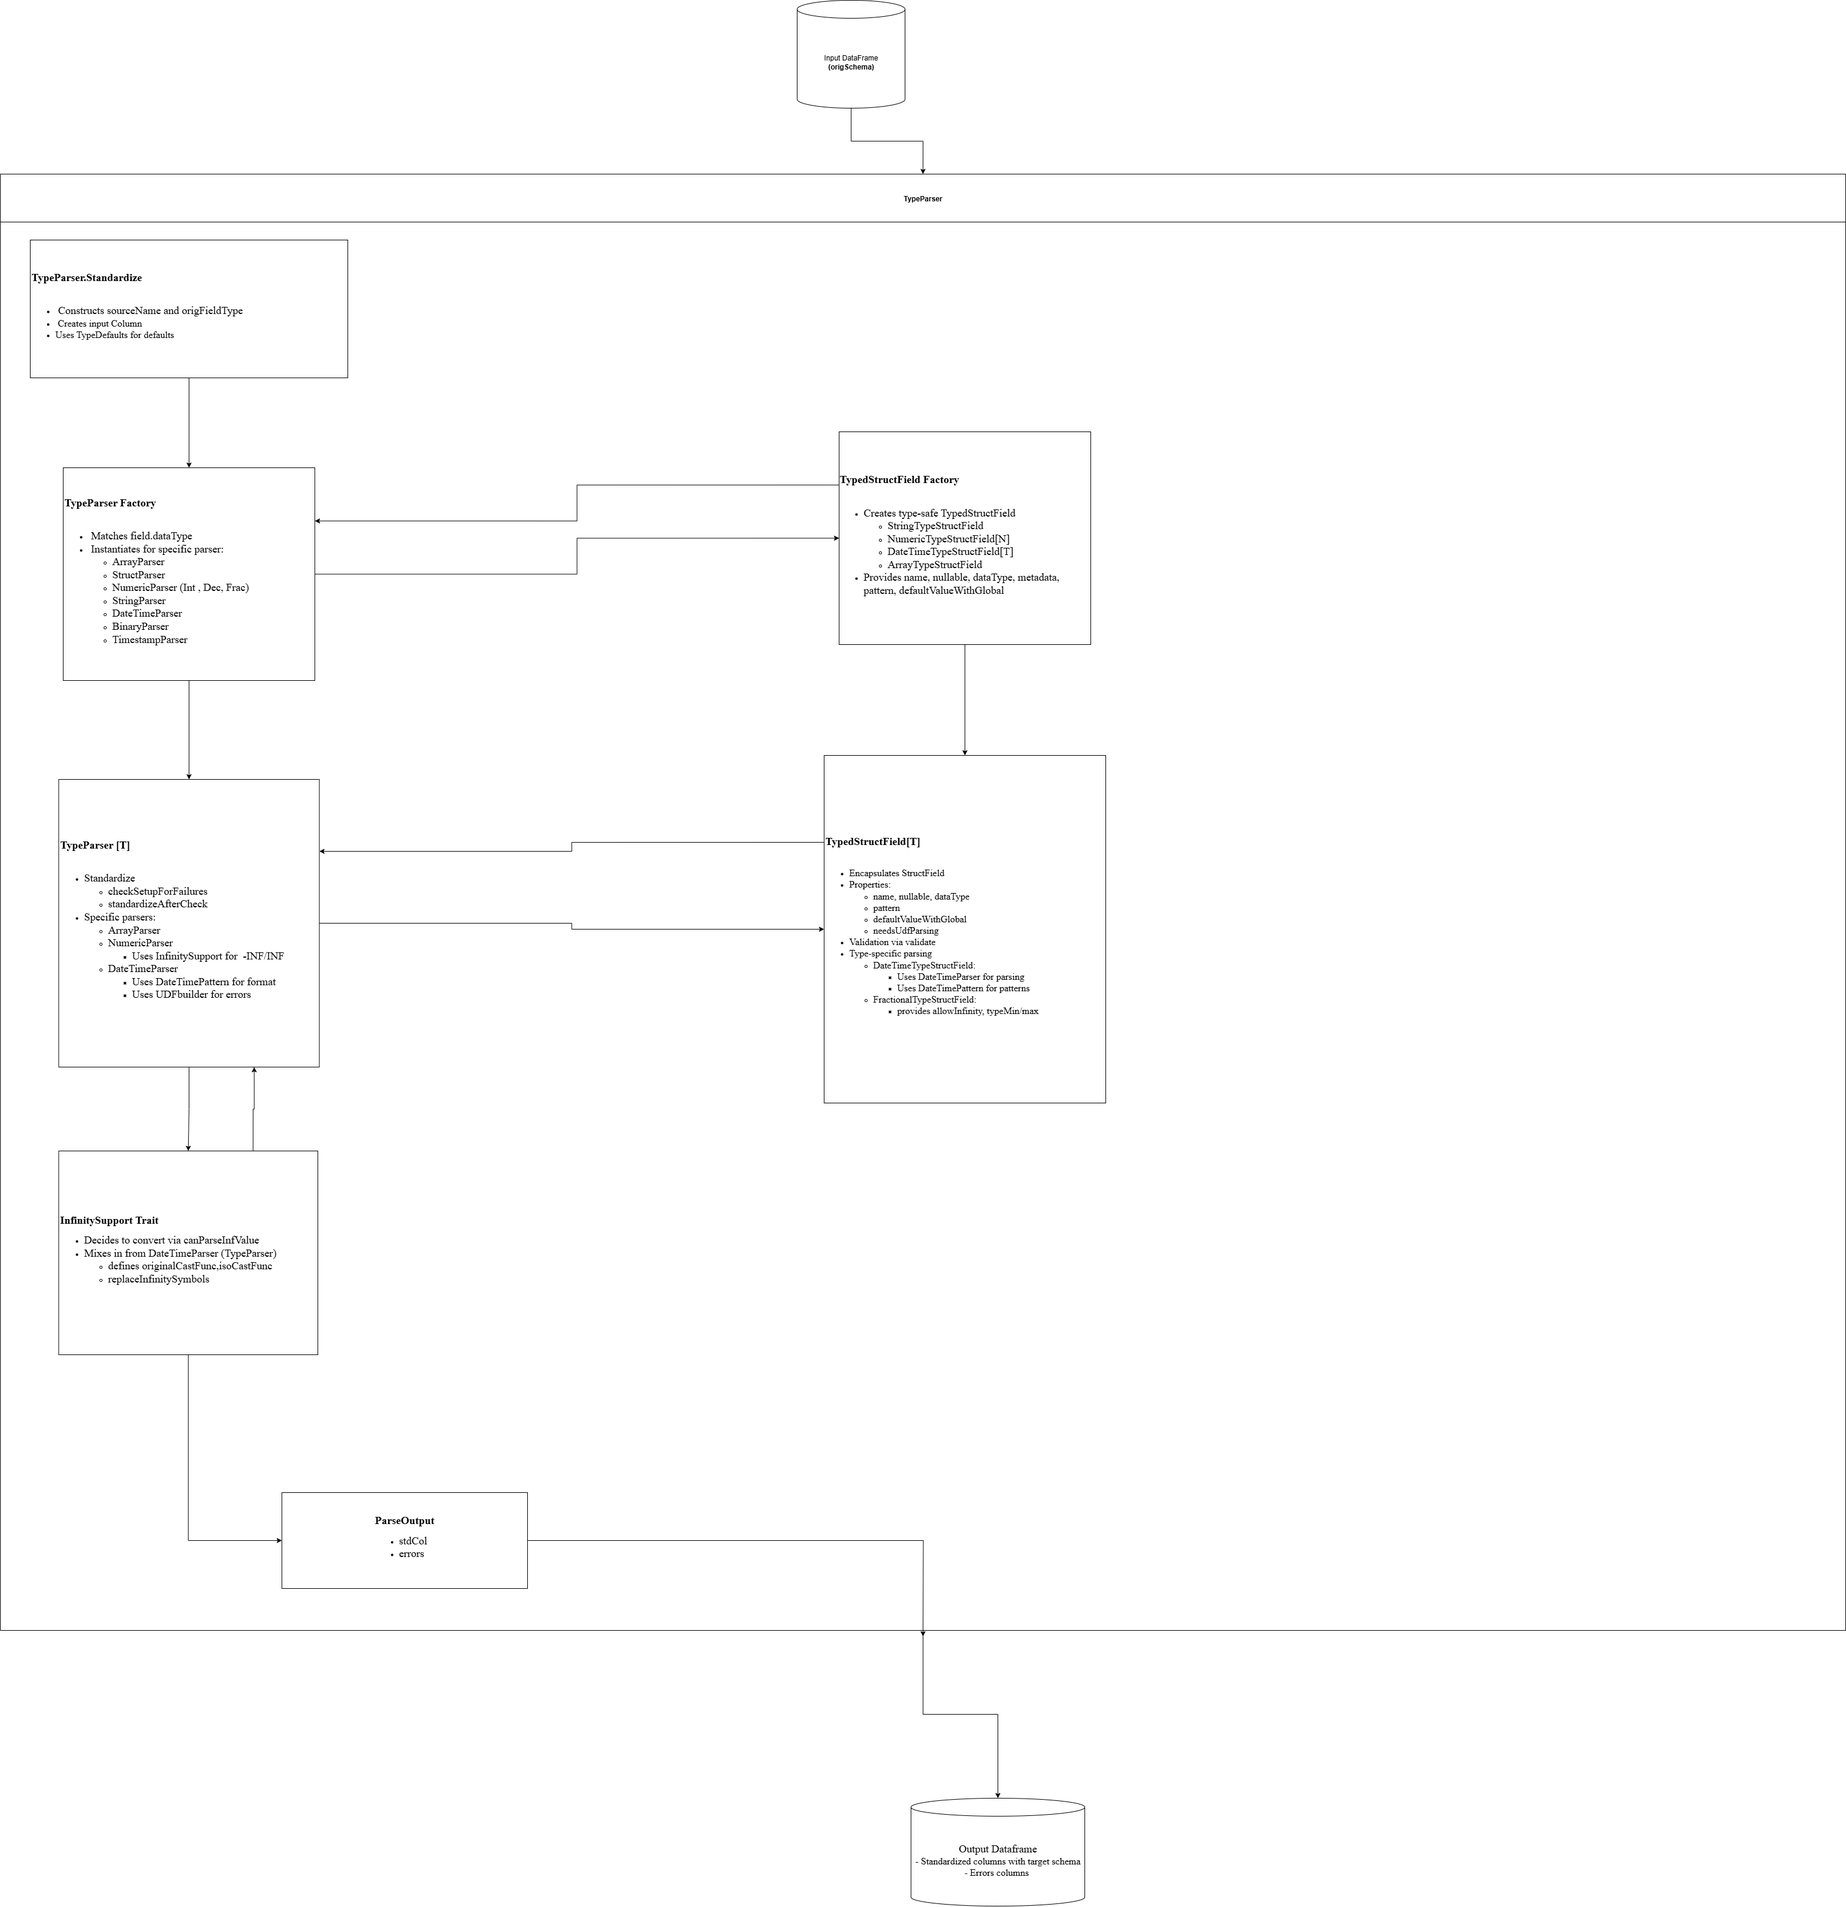
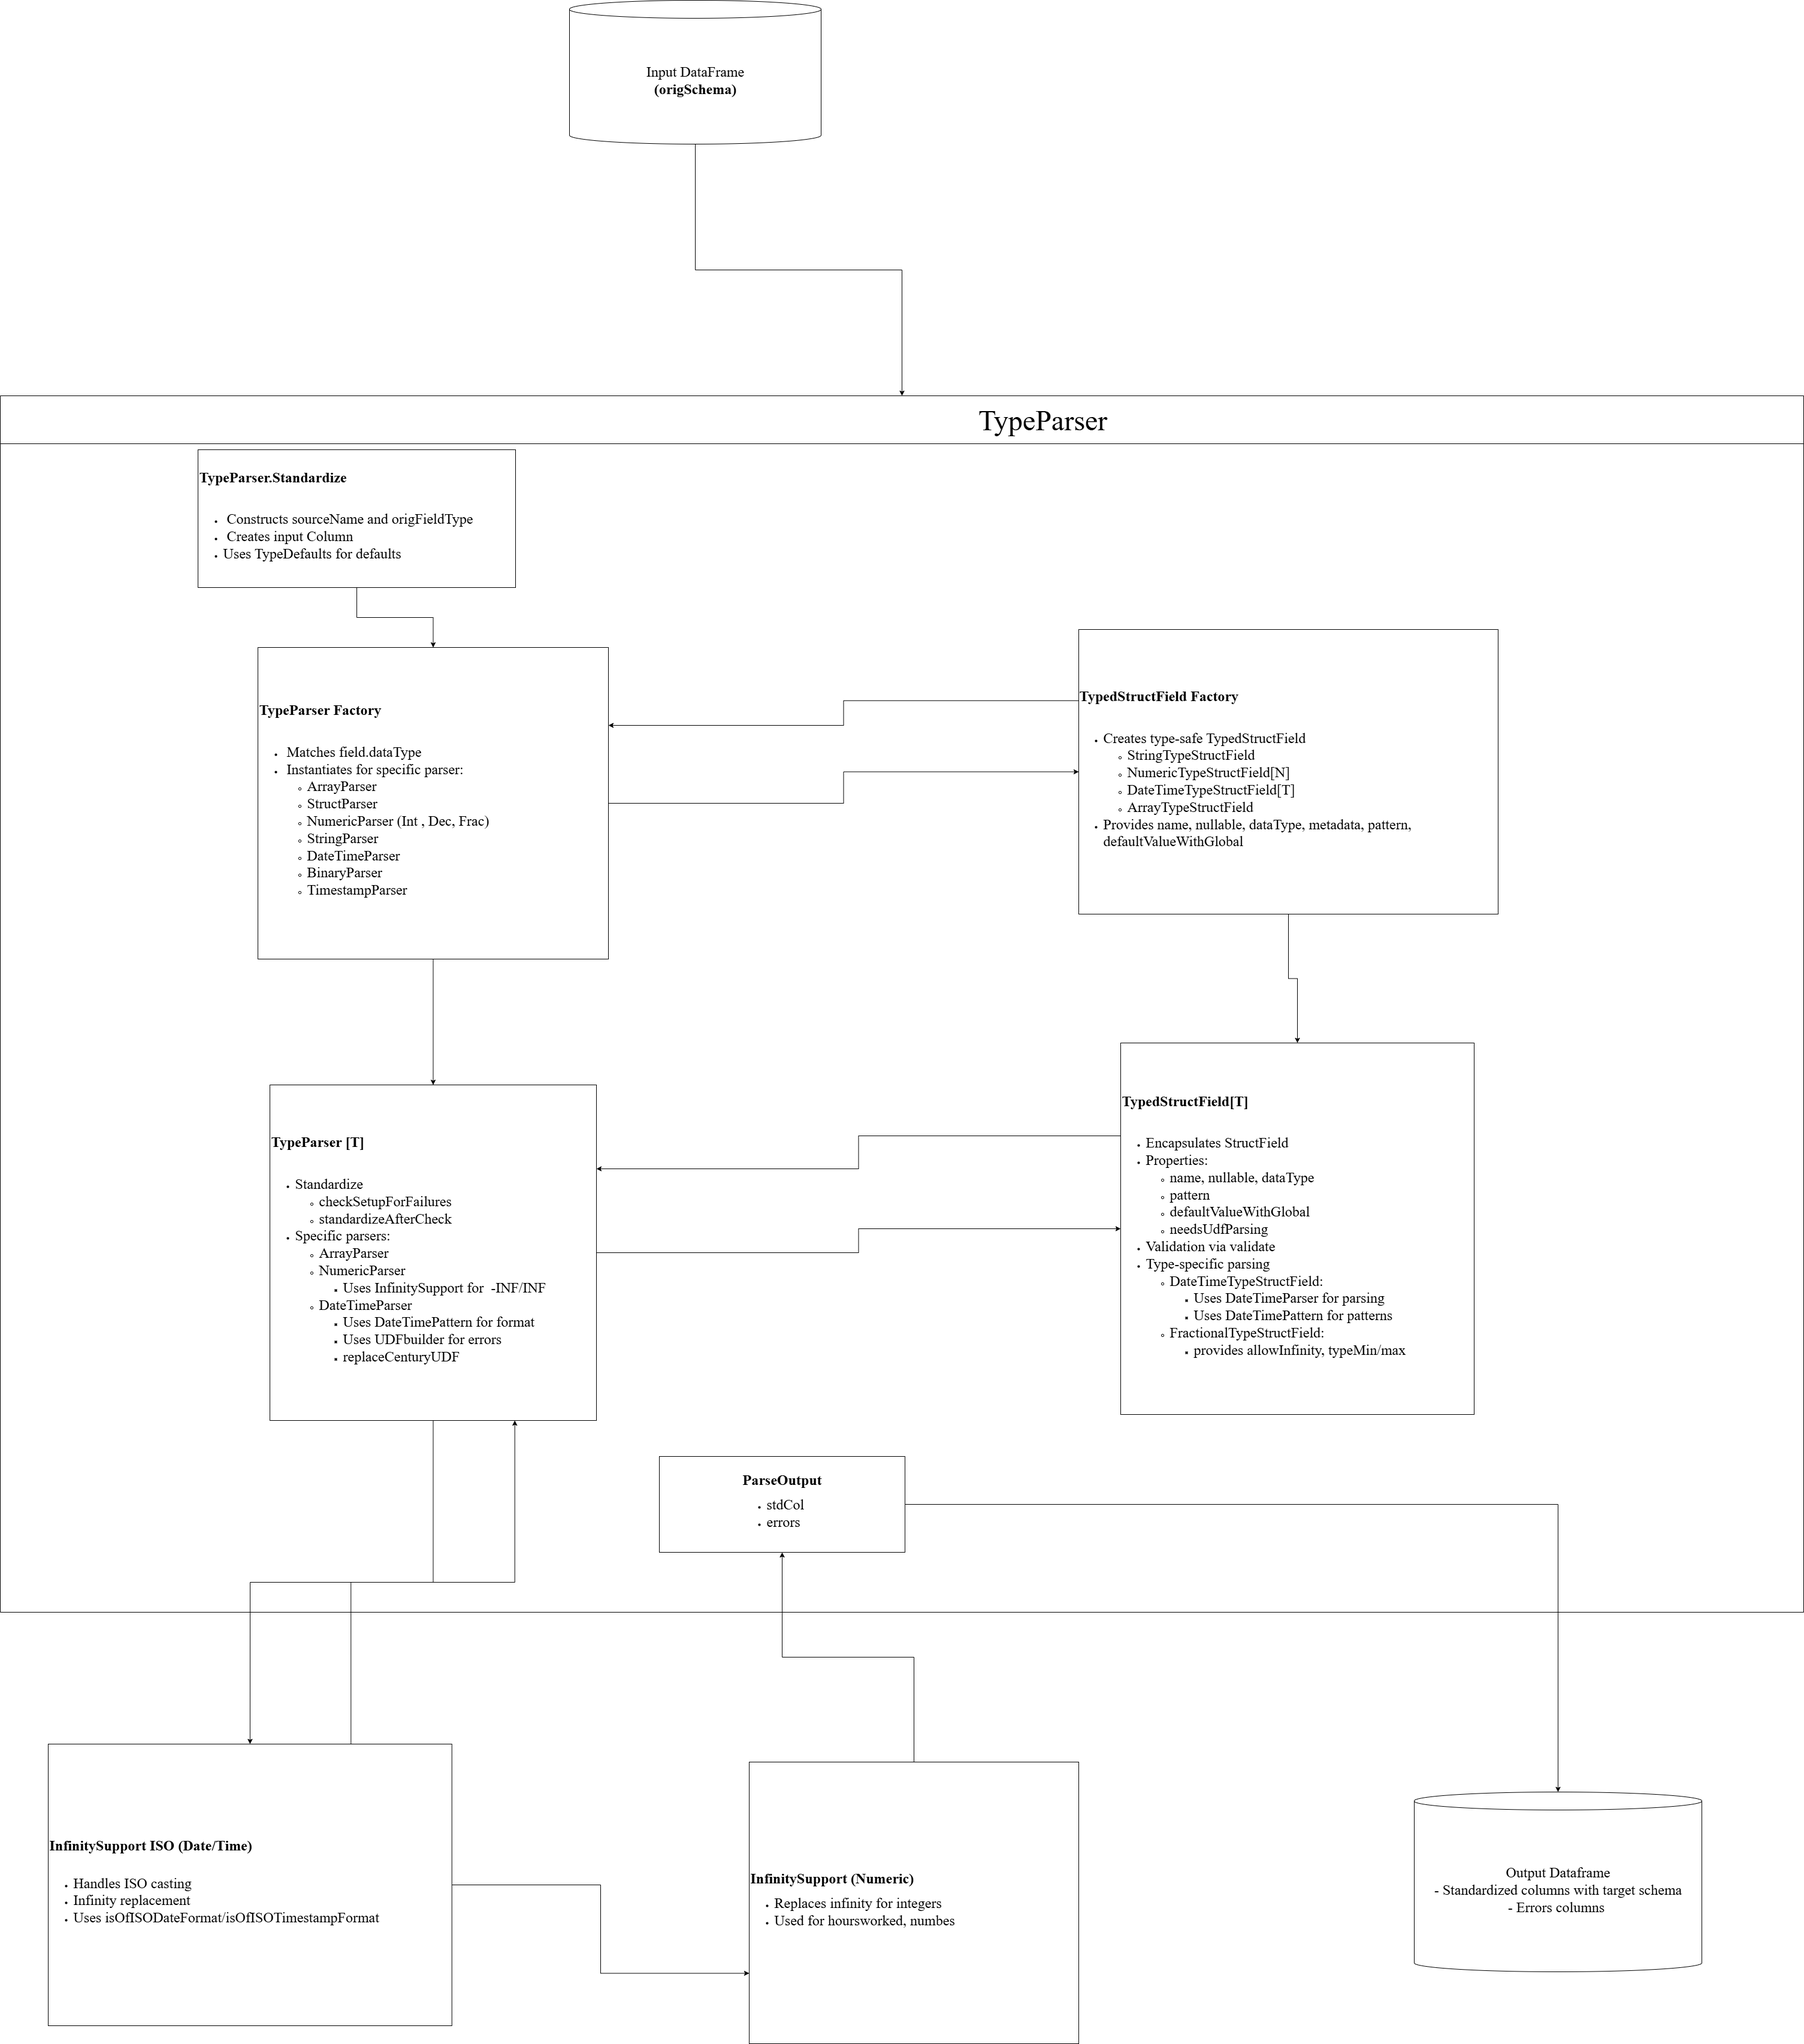
ADR re-done to align with refactored solution , added TypeParserSuite as part of test cases

diff --git a/src/main/scala/za/co/absa/standardization/adr/001-infinity-support-iso-pattern-defaults/Infinity-support-iso.md b/src/main/scala/za/co/absa/standardization/adr/001-infinity-support-iso-pattern-defaults/Infinity-support-iso.md
@@ -1,0 +1,22 @@
+# Context
+
+The current support for infinity values in the Standardization library, needs the infinity values to have the same pattern as the input values. For example, if the input values have pattern yyyy-MM-dd, then the infinity values need to be specified as e.g. 1000-01-01 or 9999-01-01.
+
+This results in a problem when patterns like yyMMdd are used, due to truncation dates such as 2010/01/01 or 2000/01/01  because of the leading zeros they can't be interpreted leading to standardizaton error.
+
+
+# Solution design
+
+As  TypeParser (it's inner classes and methods), first replaces the infinity symbol with infinity value and only then converts to timestamp/date using the provided pattern. The solution will  defer the replacement based on what pattern the infinity value follows.
+
+TypeParser is to provide the InfinitySupport with the column and the converting function  where InfinitySupport now decides if infinity value is encoded by provided pattern or ISO pattern for both positive and negative infinity , where in case no infinity defined there is no transformation else if input column === infinity symbol use the infinity_value converted using ISO pattern and  return the converting function result with original column.
+  
+# Outcome
+
+InfinitySupport replaced with class providing unified `replaceInfinitySymbols` method with a conversion function, which is extended by InfinitySupportIso which implements the date/time algorithm to parse infinity values matching the input pattern using `defaultInfinityValueInjecction` else use `isoCast` for ISO-formatted infinity values using `isOfISODateFormat` and `isOfISOTimestampFormat` to detect SO formats
+
+TypeParser continues orchestrating standardisation and delegating Parsers for source to target types.
+
+
+![Architecture diagram!](InfinitySupport-ISO-fallback.png)
+
